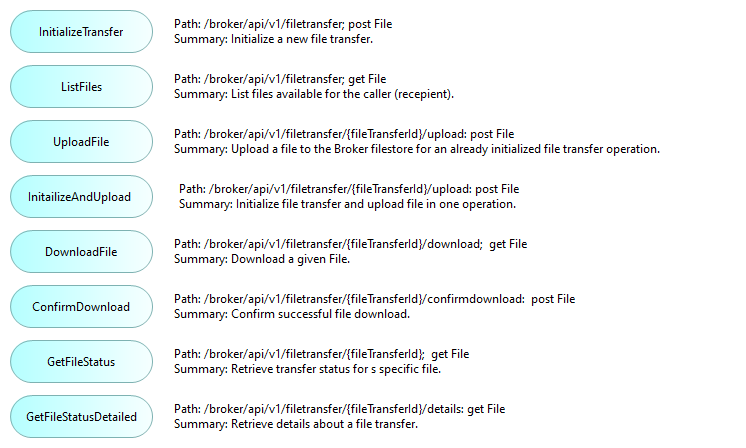
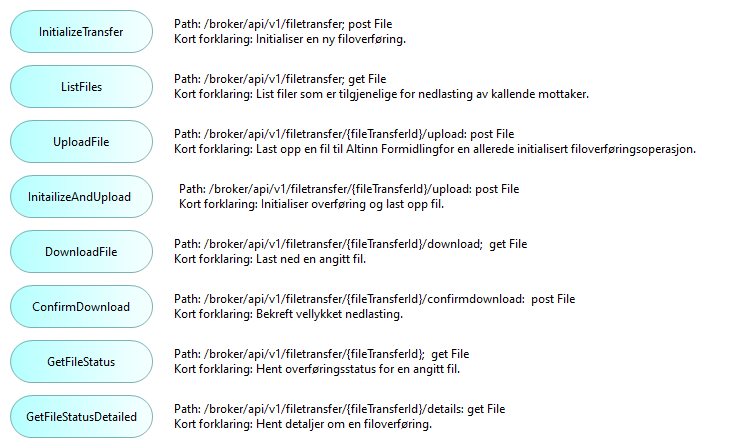
Fixed links

diff --git a/content/broker/system-interfaces/_index.nb.md b/content/broker/system-interfaces/_index.nb.md
@@ -78,7 +78,7 @@ En oversikt over operasjoner i Altinn 3 Formidling API gis av følgende figur:
 Merk: Navnene på API-operasjonene er ikke oversatt til norsk, for å unngå misforståelser opp mot tekniske OpenAPI-spesifikasjoner.
 {{</notice>}}
 
-![Altinn 3 Formidling applikasjonstjenester](altinn3-broker-application-services.en.png "Altinn 3 Formidling applikasjonstjenester")
+![Altinn 3 Formidling applikasjonstjenester](altinn3-broker-application-services.nb.png "Altinn 3 Formidling applikasjonstjenester")
 
 Hver av disse applikasjonstjenestene tilsvarer en _path_ i [Altinn 3 Formidling OpenAPI spesifikasjon][Altinn 3 Broker OpenAPI specifications].
 
